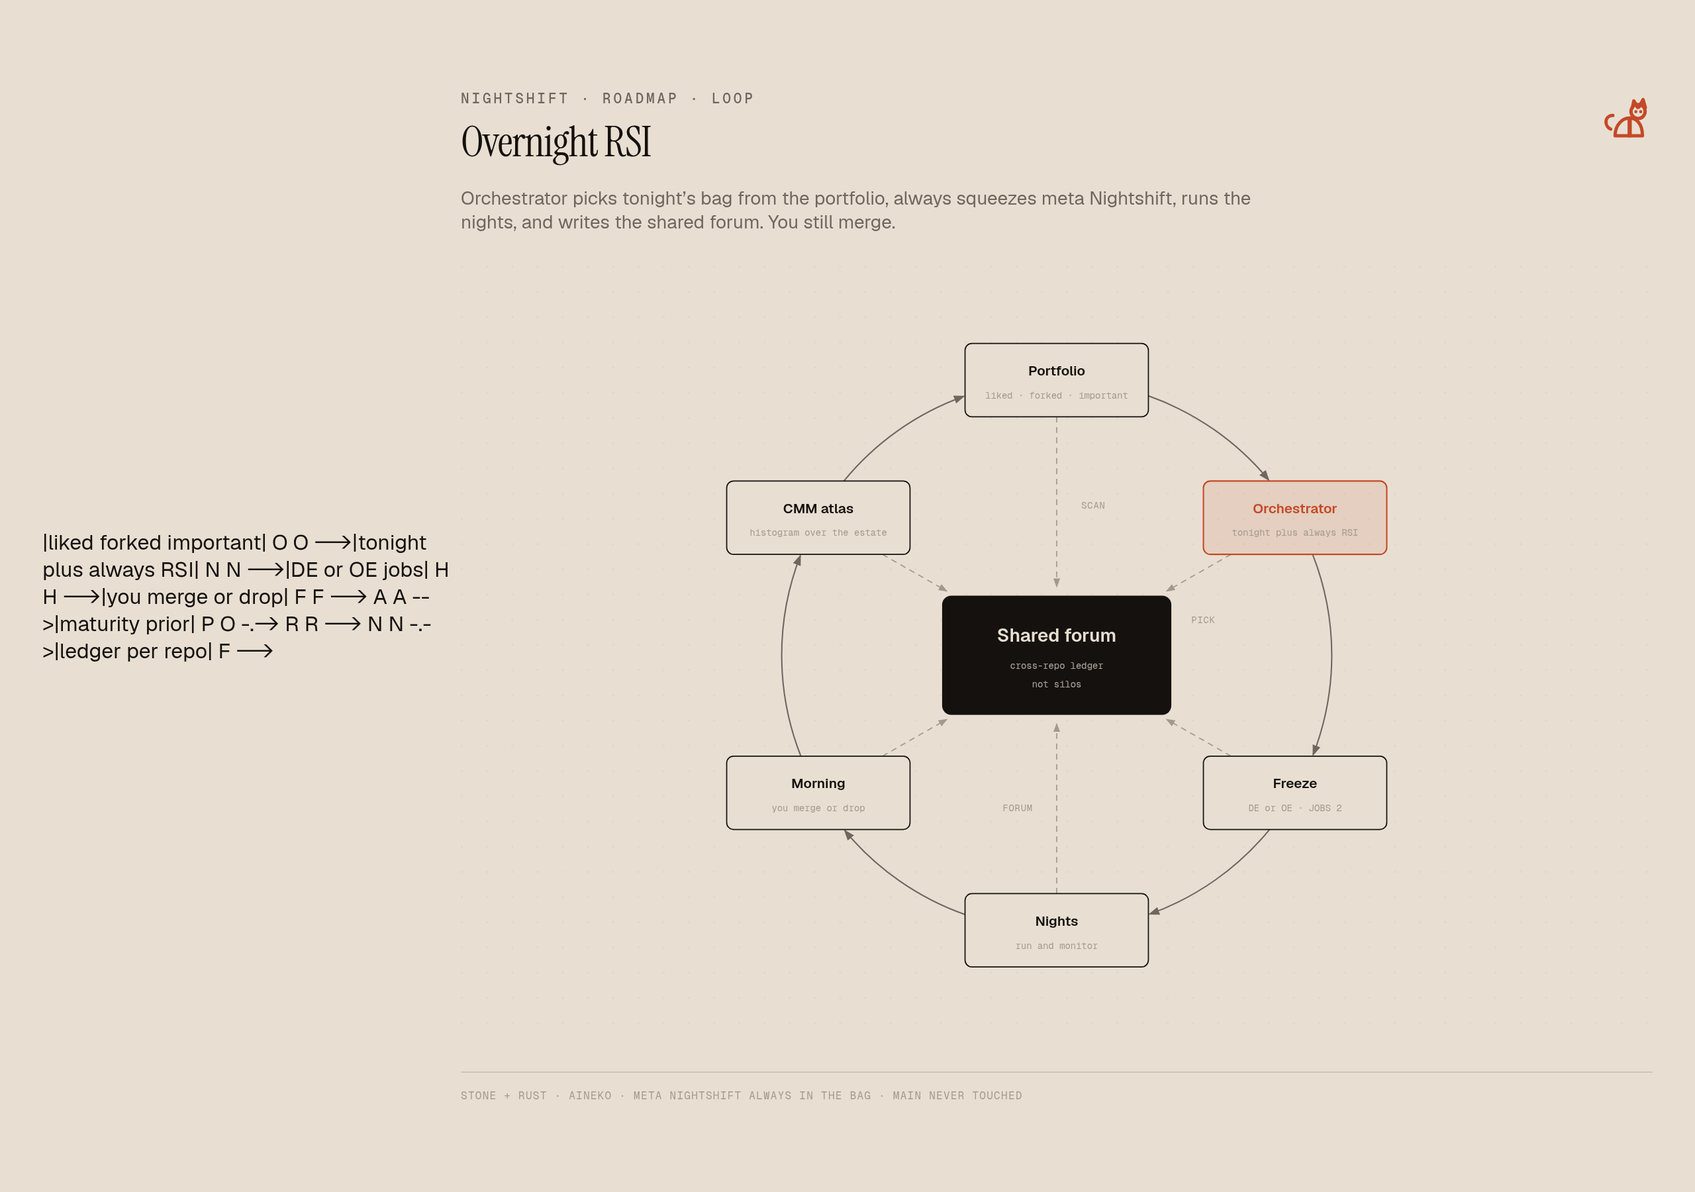
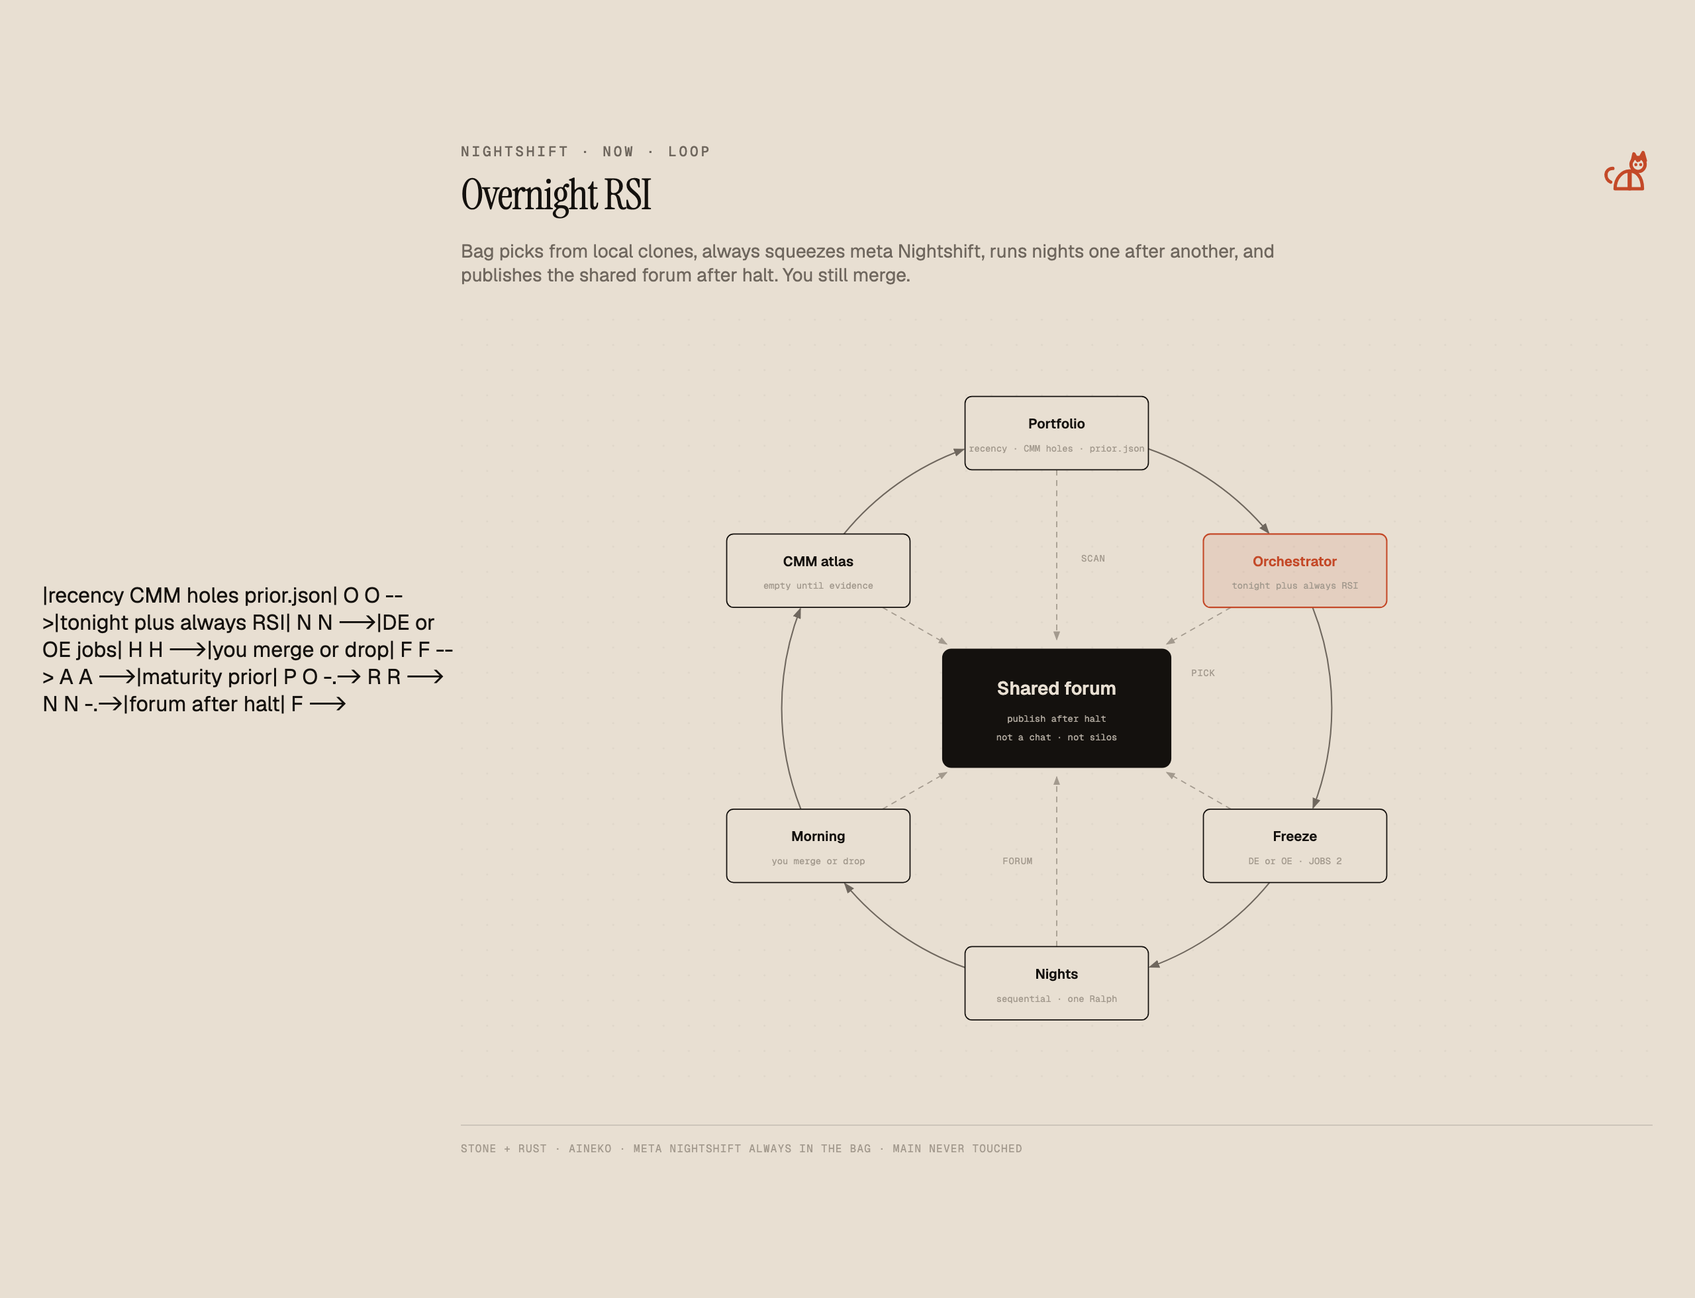
docs: stone/rust diagrams for bag, forum, CMM, and RSI
Retarget the radial loop to shipped v0 (recency / CMM holes / prior.json,
sequential nights, forum after halt). Add a night-vault diagram of
tonight's bag: meta first, lock between nights, Aineko WATCH at 06:00.
CMM histogram keeps empty columns and gains skip paths so it is not a
fake chain. README leads with these instead of the old RUN-only shots.

diff --git a/docs/readme-bag.html b/docs/readme-bag.html
@@ -1,0 +1,131 @@
+<!DOCTYPE html>
+<html lang="en">
+<head>
+  <meta charset="UTF-8"/>
+  <meta name="viewport" content="width=device-width, initial-scale=1.0"/>
+  <title>Nightshift · tonight's bag</title>
+  <link href="https://fonts.googleapis.com/css2?family=Instrument+Serif:ital@0;1&amp;family=Geist:wght@400;500;600&amp;family=Geist+Mono:wght@400;500;600&amp;display=swap" rel="stylesheet"/>
+  <style>
+    *, *::before, *::after { box-sizing: border-box; margin: 0; padding: 0; }
+    :root {
+      --paper: #e8dfd2; --ink: #14110e; --muted: #6f675e; --soft: #a39a8e;
+      --accent: #c44928; --accent-tint: rgba(196,73,40,0.10);
+      --sans: 'Geist', system-ui, sans-serif; --serif: 'Instrument Serif', serif;
+      --mono: 'Geist Mono', ui-monospace, monospace;
+    }
+    body { min-height: 100vh; display: flex; align-items: center; justify-content: center; padding: 3rem 2rem; background: var(--paper); color: var(--ink); font-family: var(--sans); }
+    .frame { width: 100%; max-width: 1200px; }
+    .head { display: flex; align-items: flex-start; justify-content: space-between; gap: 1rem; margin-bottom: 0.5rem; }
+    .eyebrow { margin-bottom: 0.5rem; color: var(--muted); font: 500 0.66rem var(--mono); letter-spacing: 0.18em; text-transform: uppercase; }
+    h1 { margin-bottom: 0.4rem; color: var(--ink); font: 400 clamp(1.5rem, 2.4vw + 0.75rem, 2rem)/1.15 var(--serif); letter-spacing: -0.02em; }
+    .lede { color: var(--muted); font: 400 14px var(--sans); margin-bottom: 1.5rem; max-width: 46rem; }
+    #aineko { width: 40px; height: 40px; flex: 0 0 40px; }
+    svg.diagram { display: block; width: 100%; min-width: 900px; }
+    footer { margin-top: 1.25rem; padding-top: 0.75rem; border-top: 1px solid rgba(20,17,14,0.12); color: var(--soft); font: 400 8px var(--mono); letter-spacing: 0.08em; }
+  </style>
+</head>
+<body>
+  <main class="frame">
+    <div class="head">
+      <div>
+        <p class="eyebrow">Nightshift · Now · Sequential bag</p>
+        <h1>Tonight’s bag</h1>
+      </div>
+      <svg id="aineko" xmlns="http://www.w3.org/2000/svg" viewBox="0 0 24 24" fill="none" stroke="#c44928" stroke-width="1.5" stroke-linecap="round" stroke-linejoin="round" aria-hidden="true">
+        <path d="M5 18c-2.8-1.2-3.2-6 1-6.2"/>
+        <path d="M7 21c0-5 3.4-8 6.4-8h.4V21z"/>
+        <path d="M13.4 21V13c3.2 0 6 2.4 6 8z"/>
+        <circle cx="17.4" cy="10" r="3.2"/>
+        <path d="M14.8 8.4L15.5 5.2l1.7 3"/>
+        <path d="M17.8 8l1.9-3.4 1 3.6"/>
+        <circle cx="16.4" cy="10.1" r="0.7" fill="#c44928" stroke="none"/>
+        <circle cx="18.6" cy="10.1" r="0.7" fill="#c44928" stroke="none"/>
+      </svg>
+    </div>
+    <p class="lede">Eight cheap hours. One writer, one critic, two nights. The lock holds in the gap — Aineko still WATCH. A second Ralph cannot start.</p>
+
+    <svg class="diagram" viewBox="0 0 1040 640" xmlns="http://www.w3.org/2000/svg" role="img" aria-labelledby="bag-title bag-desc">
+      <title id="bag-title">Tonight’s bag</title>
+      <desc id="bag-desc">Night vault from 22:00 to 06:00. Meta Nightshift occupies the first arc, a portfolio night the second, slack before halt. bag.json stays running between them. Forum publishes after each halt.</desc>
+      <defs>
+        <pattern id="dots" width="22" height="22" patternUnits="userSpaceOnUse"><circle cx="1" cy="1" r="0.9" fill="rgba(20,17,14,0.10)"/></pattern>
+      </defs>
+      <rect width="1040" height="640" fill="#e8dfd2"/>
+      <rect width="1040" height="640" fill="url(#dots)" opacity="0.4"/>
+
+      <!-- vault r=280 cx=520 cy=360 -->
+      <path d="M 240 360 A 280 280 0 0 1 800 360" fill="none" stroke="#a39a8e" stroke-width="1.2"/>
+
+      <!-- meta 22:00–01:00 -->
+      <path d="M 240 360 A 280 280 0 0 1 413 101" fill="none" stroke="#c44928" stroke-width="8" stroke-linecap="round"/>
+      <!-- portfolio 01:00–04:30 -->
+      <path d="M 413 101 A 280 280 0 0 1 753 204" fill="none" stroke="#14110e" stroke-width="8" stroke-linecap="round"/>
+      <!-- slack 04:30–06:00 -->
+      <path d="M 753 204 A 280 280 0 0 1 800 360" fill="none" stroke="#a39a8e" stroke-width="3" stroke-dasharray="5 6" stroke-linecap="round"/>
+
+      <!-- ticks -->
+      <circle cx="240" cy="360" r="3.2" fill="#14110e"/>
+      <text x="226" y="364" fill="#6f675e" font-size="8" font-family="'Geist Mono', monospace" text-anchor="end">22:00</text>
+
+      <circle cx="322" cy="162" r="2.4" fill="#a39a8e"/>
+      <text x="308" y="154" fill="#a39a8e" font-size="8" font-family="'Geist Mono', monospace" text-anchor="middle">00:00</text>
+
+      <circle cx="520" cy="80" r="2.4" fill="#a39a8e"/>
+      <text x="520" y="70" fill="#a39a8e" font-size="8" font-family="'Geist Mono', monospace" text-anchor="middle">02:00</text>
+
+      <circle cx="718" cy="162" r="2.4" fill="#a39a8e"/>
+      <text x="736" y="154" fill="#a39a8e" font-size="8" font-family="'Geist Mono', monospace" text-anchor="middle">04:00</text>
+
+      <circle cx="800" cy="360" r="3.2" fill="#c44928"/>
+      <text x="816" y="364" fill="#c44928" font-size="8" font-family="'Geist Mono', monospace">06:00 HALT</text>
+
+      <!-- segment labels on the vault -->
+      <text x="300" y="250" fill="#c44928" font-size="9" font-weight="600" font-family="Geist, sans-serif" transform="rotate(-48 300 250)">META RSI</text>
+      <text x="560" y="118" fill="#14110e" font-size="9" font-weight="600" font-family="Geist, sans-serif">PORTFOLIO</text>
+      <text x="790" y="250" fill="#a39a8e" font-size="8" font-family="'Geist Mono', monospace" transform="rotate(48 790 250)">slack</text>
+
+      <!-- lock plate -->
+      <rect x="420" y="250" width="200" height="56" rx="8" fill="#14110e"/>
+      <text x="520" y="274" text-anchor="middle" fill="#e8dfd2" font-size="11" font-weight="600" font-family="Geist, sans-serif">bag.json · running</text>
+      <text x="520" y="292" text-anchor="middle" fill="#e8dfd2" opacity="0.7" font-size="8" font-family="'Geist Mono', monospace">lock holds between nights</text>
+
+      <!-- Aineko perched on halt -->
+      <g transform="translate(808, 372) scale(1.15)" fill="none" stroke="#c44928" stroke-width="1.5" stroke-linecap="round" stroke-linejoin="round">
+        <path d="M5 18c-2.8-1.2-3.2-6 1-6.2"/>
+        <path d="M7 21c0-5 3.4-8 6.4-8h.4V21z"/>
+        <path d="M13.4 21V13c3.2 0 6 2.4 6 8z"/>
+        <circle cx="17.4" cy="10" r="3.2"/>
+        <path d="M14.8 8.4L15.5 5.2l1.7 3"/>
+        <path d="M17.8 8l1.9-3.4 1 3.6"/>
+        <circle cx="16.4" cy="10.1" r="0.7" fill="#c44928" stroke="none"/>
+        <circle cx="18.6" cy="10.1" r="0.7" fill="#c44928" stroke="none"/>
+      </g>
+      <text x="838" y="408" fill="#c44928" font-size="7" font-family="'Geist Mono', monospace" letter-spacing="0.14em">WATCH</text>
+
+      <!-- queue cards -->
+      <rect x="80" y="430" width="280" height="88" rx="6" fill="rgba(196,73,40,0.10)" stroke="#c44928" stroke-width="1.2"/>
+      <text x="100" y="456" fill="#c44928" font-size="8" font-family="'Geist Mono', monospace" letter-spacing="0.16em">1 · META</text>
+      <text x="100" y="478" fill="#14110e" font-size="14" font-weight="600" font-family="Geist, sans-serif">nightshift</text>
+      <text x="100" y="498" fill="#6f675e" font-size="8" font-family="'Geist Mono', monospace">explicit=true · RSI night</text>
+
+      <rect x="380" y="430" width="280" height="88" rx="6" fill="#e8dfd2" stroke="#14110e"/>
+      <text x="400" y="456" fill="#6f675e" font-size="8" font-family="'Geist Mono', monospace" letter-spacing="0.16em">2 · PORTFOLIO</text>
+      <text x="400" y="478" fill="#14110e" font-size="14" font-weight="600" font-family="Geist, sans-serif">a CMM hole</text>
+      <text x="400" y="498" fill="#6f675e" font-size="8" font-family="'Geist Mono', monospace">explicit=false · after meta halts</text>
+
+      <rect x="680" y="430" width="280" height="88" rx="6" fill="#e8dfd2" stroke="#a39a8e" stroke-dasharray="4 3"/>
+      <text x="700" y="456" fill="#a39a8e" font-size="8" font-family="'Geist Mono', monospace" letter-spacing="0.16em">FORUM</text>
+      <text x="700" y="478" fill="#14110e" font-size="14" font-weight="600" font-family="Geist, sans-serif">publish after halt</text>
+      <text x="700" y="498" fill="#6f675e" font-size="8" font-family="'Geist Mono', monospace">never the writer · never dry-run</text>
+
+      <!-- brains -->
+      <circle cx="120" cy="560" r="6" fill="#c44928"/>
+      <text x="136" y="564" fill="#14110e" font-size="10" font-weight="600" font-family="Geist, sans-serif">CRITIC · oMLX</text>
+      <circle cx="320" cy="560" r="6" fill="#14110e"/>
+      <text x="336" y="564" fill="#14110e" font-size="10" font-weight="600" font-family="Geist, sans-serif">WRITER · SPARK DS4</text>
+      <text x="560" y="564" fill="#6f675e" font-size="8" font-family="'Geist Mono', monospace">one pair · never two Ralphs · size 2 fits the 8 h window</text>
+    </svg>
+    <footer>ONE WRITER · ONE CRITIC · BAG.JSON IS THE LOCK · MAIN NEVER TOUCHED</footer>
+  </main>
+</body>
+</html>

diff --git a/docs/roadmap-cmm.html b/docs/roadmap-cmm.html
@@ -7,7 +7,11 @@ flowchart LR
   L3[L3 ledger memory]
   L4[L4 forum reuse]
   L5[L5 meta RSI]
-  L0 --> L1 --> L2 --> L3 --> L4 --> L5
+  L0 --> L1
+  L1 --> L2
+  L1 -.-> L3
+  L2 --> L4
+  L2 -.-> L5
 -->
 <html lang="en">
 <head>
@@ -52,16 +56,16 @@ flowchart LR
         <circle cx="18.6" cy="10.1" r="0.7" fill="#c44928" stroke="none"/>
       </svg>
     </div>
-    <p class="lede">The frame of the histogram. Columns stay empty until nights write evidence. Not live scores.</p>
+    <p class="lede">The frame of the histogram. Columns stay empty until nights write evidence. Not live scores. Not a chain: L3 does not require L2; L5 does not require L4.</p>
 
-    <svg class="diagram" viewBox="0 0 1040 420" xmlns="http://www.w3.org/2000/svg" role="img" aria-labelledby="roadmap-cmm-title roadmap-cmm-desc">
+    <svg class="diagram" viewBox="0 0 1040 540" xmlns="http://www.w3.org/2000/svg" role="img" aria-labelledby="roadmap-cmm-title roadmap-cmm-desc">
       <title id="roadmap-cmm-title">CMM atlas</title>
-      <desc id="roadmap-cmm-desc">Six capability-maturity levels from unobserved to meta RSI, drawn as empty histogram columns. No repository scores are shown.</desc>
+      <desc id="roadmap-cmm-desc">Six capability-maturity levels from unobserved to meta RSI, drawn as empty histogram columns. Skip paths: L1 to L3 without L2, L2 to L5 without L4. No repository scores are shown.</desc>
       <defs>
         <marker id="arrow" markerWidth="8" markerHeight="6" refX="7" refY="3" orient="auto"><polygon points="0 0, 8 3, 0 6" fill="#6f675e"/></marker>
         <marker id="arrow-accent" markerWidth="8" markerHeight="6" refX="7" refY="3" orient="auto"><polygon points="0 0, 8 3, 0 6" fill="#c44928"/></marker>
       </defs>
-      <rect width="1040" height="420" fill="#e8dfd2"/>
+      <rect width="1040" height="540" fill="#e8dfd2"/>
       <line x1="56" y1="48" x2="56" y2="280" stroke="#a39a8e" stroke-width="1"/>
       <line x1="56" y1="280" x2="1000" y2="280" stroke="#a39a8e" stroke-width="1"/>
       <text x="40" y="44" fill="#a39a8e" font-size="8" font-family="'Geist Mono', monospace" letter-spacing="0.08em">REPOS</text>
@@ -86,16 +90,22 @@ flowchart LR
       <text x="904" y="304" text-anchor="middle" fill="#c44928" font-size="12" font-weight="600" font-family="'Geist', sans-serif">L5</text>
       <text x="904" y="320" text-anchor="middle" fill="#a39a8e" font-size="8" font-family="'Geist Mono', monospace">meta RSI</text>
 
-      <line x1="30" y1="356" x2="1010" y2="356" stroke="rgba(20,17,14,0.10)" stroke-width="0.8"/>
-      <text x="56" y="380" fill="#a39a8e" font-size="8" font-family="'Geist Mono', monospace" letter-spacing="0.14em">LEGEND</text>
-      <rect x="160" y="368" width="16" height="12" rx="2" fill="#e8dfd2" stroke="#a39a8e" stroke-dasharray="4 3"/>
-      <text x="184" y="378" fill="#6f675e" font-size="8" font-family="'Geist Mono', monospace">empty · no nights yet</text>
-      <rect x="400" y="368" width="16" height="12" rx="2" fill="#e8dfd2" stroke="#14110e"/>
-      <text x="424" y="378" fill="#6f675e" font-size="8" font-family="'Geist Mono', monospace">level frame</text>
-      <rect x="560" y="368" width="16" height="12" rx="2" fill="rgba(196,73,40,0.10)" stroke="#c44928"/>
-      <text x="584" y="378" fill="#6f675e" font-size="8" font-family="'Geist Mono', monospace">focal · meta RSI</text>
+      <path d="M296 328 C 360 328, 390 388, 448 388 S 530 388, 600 328" fill="none" stroke="#6f675e" stroke-width="1" stroke-dasharray="4 3" marker-end="url(#arrow)"/>
+      <text x="448" y="406" text-anchor="middle" fill="#6f675e" font-size="8" font-family="'Geist Mono', monospace">L1 → L3  void-only freeze · no host_check</text>
+
+      <path d="M448 328 C 620 328, 780 438, 904 328" fill="none" stroke="#c44928" stroke-width="1.1" stroke-dasharray="4 3" marker-end="url(#arrow-accent)"/>
+      <text x="752" y="452" text-anchor="middle" fill="#c44928" font-size="8" font-family="'Geist Mono', monospace">L2 → L5  meta RSI · no forum reuse required</text>
+
+      <line x1="30" y1="478" x2="1010" y2="478" stroke="rgba(20,17,14,0.10)" stroke-width="0.8"/>
+      <text x="56" y="508" fill="#a39a8e" font-size="8" font-family="'Geist Mono', monospace" letter-spacing="0.14em">LEGEND</text>
+      <rect x="160" y="496" width="16" height="12" rx="2" fill="#e8dfd2" stroke="#a39a8e" stroke-dasharray="4 3"/>
+      <text x="184" y="506" fill="#6f675e" font-size="8" font-family="'Geist Mono', monospace">empty · no nights yet</text>
+      <rect x="400" y="496" width="16" height="12" rx="2" fill="#e8dfd2" stroke="#14110e"/>
+      <text x="424" y="506" fill="#6f675e" font-size="8" font-family="'Geist Mono', monospace">level frame</text>
+      <rect x="560" y="496" width="16" height="12" rx="2" fill="rgba(196,73,40,0.10)" stroke="#c44928"/>
+      <text x="584" y="506" fill="#6f675e" font-size="8" font-family="'Geist Mono', monospace">focal · meta RSI</text>
     </svg>
-    <footer>SHAPE OF THE ATLAS · NOT LIVE SCORES · EVIDENCE COMES FROM NIGHTS</footer>
+    <footer>SHAPE OF THE ATLAS · NOT LIVE SCORES · LADDER OF CAPABILITY, NOT IMPLICATION</footer>
   </main>
 </body>
 </html>

diff --git a/docs/roadmap-loop.html b/docs/roadmap-loop.html
@@ -9,7 +9,7 @@ flowchart LR
   A[CMM atlas]
   R[Meta Nightshift]
 
-  P -->|liked forked important| O
+  P -->|recency CMM holes prior.json| O
   O -->|tonight plus always RSI| N
   N -->|DE or OE jobs| H
   H -->|you merge or drop| F
@@ -17,7 +17,7 @@ flowchart LR
   A -->|maturity prior| P
   O -.-> R
   R --> N
-  N -.->|ledger per repo| F
+  N -.->|forum after halt| F
 -->
 <html lang="en">
 <head>
@@ -59,7 +59,7 @@ flowchart LR
   <main class="frame">
     <div class="head">
       <div>
-        <p class="eyebrow">Nightshift · Roadmap · Loop</p>
+        <p class="eyebrow">Nightshift · Now · Loop</p>
         <h1>Overnight RSI</h1>
       </div>
       <svg id="aineko" xmlns="http://www.w3.org/2000/svg" viewBox="0 0 24 24" fill="none" stroke="#c44928" stroke-width="1.5" stroke-linecap="round" stroke-linejoin="round" aria-hidden="true">
@@ -73,7 +73,7 @@ flowchart LR
         <circle cx="18.6" cy="10.1" r="0.7" fill="#c44928" stroke="none"/>
       </svg>
     </div>
-    <p class="lede">Orchestrator picks tonight’s bag from the portfolio, always squeezes meta Nightshift, runs the nights, and writes the shared forum. You still merge.</p>
+    <p class="lede">Bag picks from local clones, always squeezes meta Nightshift, runs nights one after another, and publishes the shared forum after halt. You still merge.</p>
 
     <svg class="diagram" viewBox="0 0 1040 680" xmlns="http://www.w3.org/2000/svg" role="img" aria-labelledby="roadmap-loop-title roadmap-loop-desc">
       <title id="roadmap-loop-title">Overnight RSI</title>
@@ -111,7 +111,7 @@ flowchart LR
 
       <rect class="station" x="440" y="68" width="160" height="64" rx="6"/>
       <text x="520" y="96" class="node-name">Portfolio</text>
-      <text x="520" y="116" class="sublabel">liked · forked · important</text>
+      <text x="520" y="116" class="sublabel">recency · CMM holes · prior.json</text>
 
       <rect class="station focal" x="648" y="188" width="160" height="64" rx="6"/>
       <text x="728" y="216" class="node-name focal-name">Orchestrator</text>
@@ -123,7 +123,7 @@ flowchart LR
 
       <rect class="station" x="440" y="548" width="160" height="64" rx="6"/>
       <text x="520" y="576" class="node-name">Nights</text>
-      <text x="520" y="596" class="sublabel">run and monitor</text>
+      <text x="520" y="596" class="sublabel">sequential · one Ralph</text>
 
       <rect class="station" x="232" y="428" width="160" height="64" rx="6"/>
       <text x="312" y="456" class="node-name">Morning</text>
@@ -131,12 +131,12 @@ flowchart LR
 
       <rect class="station" x="232" y="188" width="160" height="64" rx="6"/>
       <text x="312" y="216" class="node-name">CMM atlas</text>
-      <text x="312" y="236" class="sublabel">histogram over the estate</text>
+      <text x="312" y="236" class="sublabel">empty until evidence</text>
 
       <rect class="hub" x="420" y="288" width="200" height="104" rx="8"/>
       <text x="520" y="328" class="hub-name">Shared forum</text>
-      <text x="520" y="352" class="hub-sub">cross-repo ledger</text>
-      <text x="520" y="368" class="hub-sub">not silos</text>
+      <text x="520" y="352" class="hub-sub">publish after halt</text>
+      <text x="520" y="368" class="hub-sub">not a chat · not silos</text>
     </svg>
     <footer>STONE + RUST · AINEKO · META NIGHTSHIFT ALWAYS IN THE BAG · MAIN NEVER TOUCHED</footer>
   </main>

diff --git a/README.md b/README.md
@@ -27,13 +27,21 @@ Then a Ralph loop until remaining is 0, the clock (default 06:00 local), or `max
 
 Merge it, cherry-pick it, or delete it. Now / Next / Later: [ROADMAP.md](ROADMAP.md).
 
-![Nightshift command deck](docs/command-deck.png)
+![Overnight RSI — portfolio, bag, forum, CMM](docs/roadmap-loop.png)
 
-![Nightshift command deck and LoopScope during a live overnight run](docs/deck-loopscope.png)
+*The loop. Forum is the hub. Meta Nightshift is always in the bag. You still merge.*
+
+![Tonight's bag — sequential nights under one lock](docs/readme-bag.png)
+
+*Eight cheap hours. One writer, one critic, two nights. `bag.json` stays running in the gap. Aineko WATCH until 06:00.*
+
+![CMM atlas — empty columns, skip paths, not a chain](docs/roadmap-cmm.png)
+
+*Capability, not implication. L3 does not require L2. L5 does not require L4. Empty until the forum has rows.*
 
 ![Meta Nightshift / RSI](docs/rsi-graph.png)
 
-*RSI — recursive self-improvement. Orange is the night (Nightshift writing Nightshift). Blue is `main`. The bag always includes this repo unless you `--skip-meta`. You still merge.*
+*RSI in git. Orange is the night (Nightshift writing Nightshift). Blue is `main`. The bag always includes this repo unless you `--skip-meta`. You still merge.*
 
 Personal-capacity OSS. GitHub is the remote. Morning review is VS Code, not Cursor. Author: Nicolas Cravino / sw30labs.
 
@@ -112,6 +120,10 @@ nightshift serve                        # live Mac: oMLX + spark-serve ds4
 Defaults to `http://127.0.0.1:43171`. Lists git repos under `NIGHTSHIFT_ROOTS` (default `~/REPOS`; skip `DEPRECATED` unless toggled). Click one, set **JOBS** 2–5, press **Run**. Or **BAG** / **RUN BAG** for tonight's sequential queue (JOBS applies to every night in the bag). Live `remaining_count`, which brain is hot, last host-check output, LoopScope link, bag list, then `summary.md` after halt. **CMM** in the header is the local histogram. Aineko WATCH while a night or a bag is running (including the gap between bag nights). No DE/OE checkboxes.
 
 `--demo` seeds a failing `widget` repo so the list is not empty.
+
+![Nightshift command deck](docs/command-deck.png)
+
+![Nightshift command deck and LoopScope during a live overnight run](docs/deck-loopscope.png)
 
 ## CLI (equally first-class)
 

diff --git a/ROADMAP.md b/ROADMAP.md
@@ -15,9 +15,11 @@ Sometimes the freeze is DE. Sometimes it is run-logs. Never both as fake checkbo
 
 Cross-repo state lives in a **shared forum**, not only in per-clone silos. The **CMM atlas** is a histogram of maturity over that forum: where each project sits, how it moved, what transferred.
 
-Editorial rendering (stone / rust, Aineko on the header): [docs/roadmap-loop.html](docs/roadmap-loop.html) · [docs/roadmap-cmm.html](docs/roadmap-cmm.html)
+Editorial rendering (stone / rust, Aineko on the header): [docs/roadmap-loop.html](docs/roadmap-loop.html) · [docs/readme-bag.html](docs/readme-bag.html) · [docs/roadmap-cmm.html](docs/roadmap-cmm.html)
 
 ![Overnight RSI](docs/roadmap-loop.png)
+
+![Tonight's bag](docs/readme-bag.png)
 
 ```mermaid
 flowchart LR
@@ -62,7 +64,11 @@ flowchart LR
   L3[L3 ledger memory]
   L4[L4 forum reuse]
   L5[L5 meta RSI]
-  L0 --> L1 --> L2 --> L3 --> L4 --> L5
+  L0 --> L1
+  L1 --> L2
+  L1 -.-> L3
+  L2 --> L4
+  L2 -.-> L5
 ```
 
 | Level | Name | Evidence |
